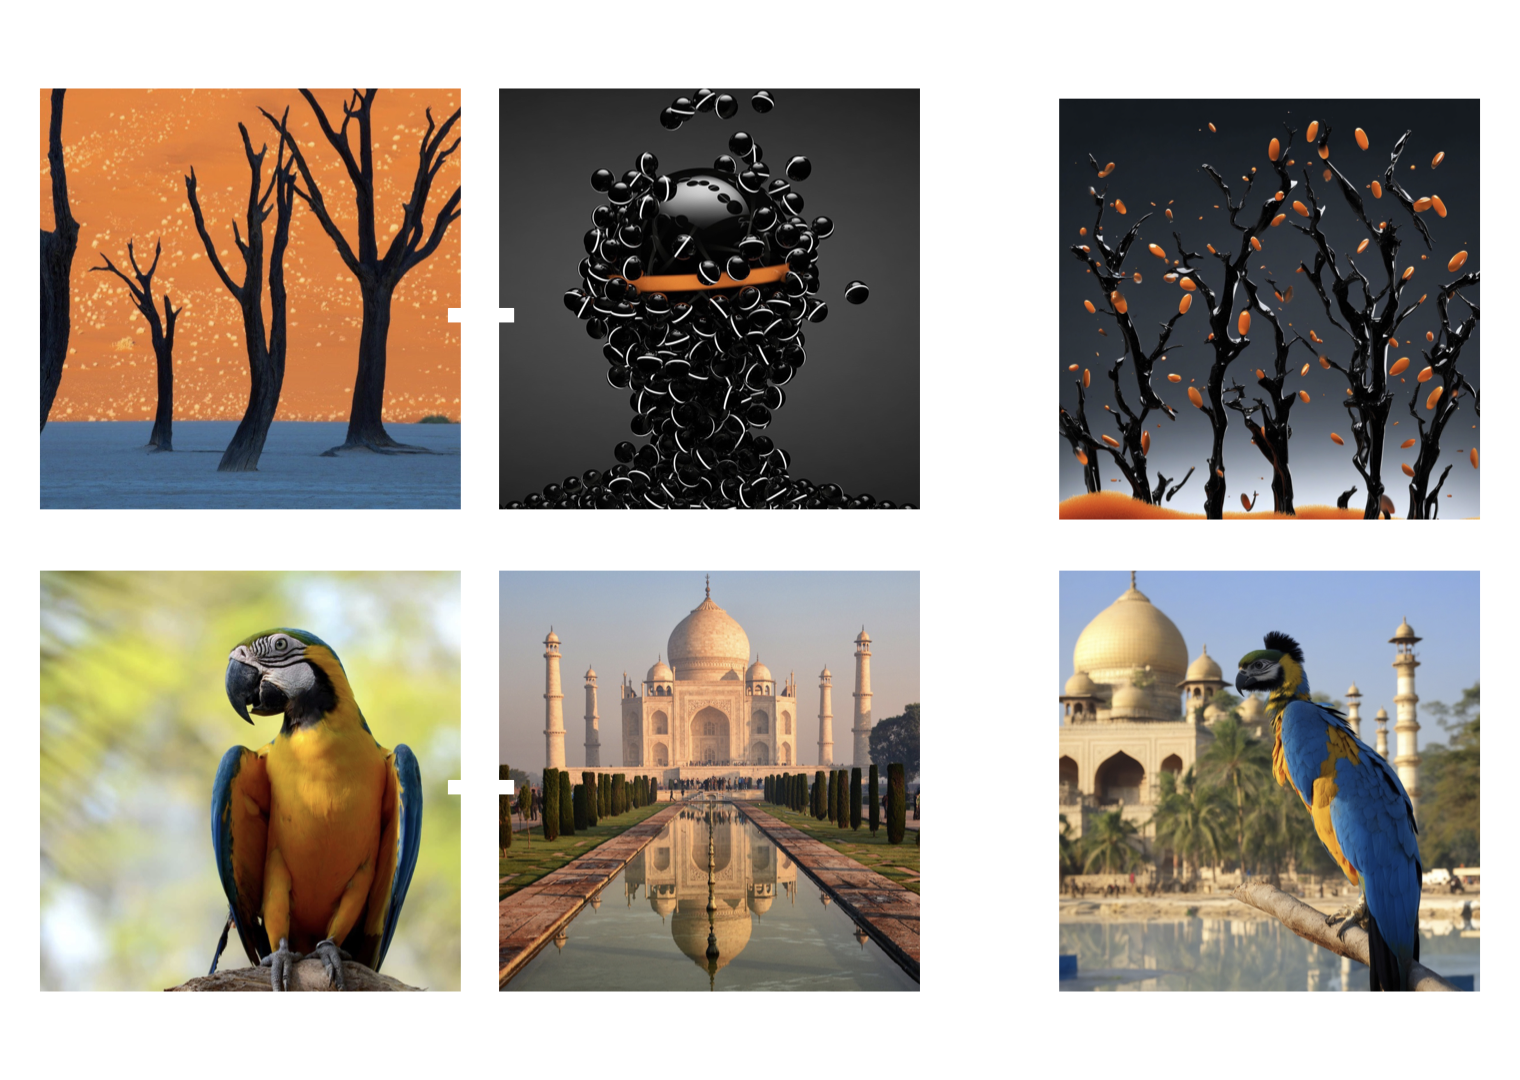
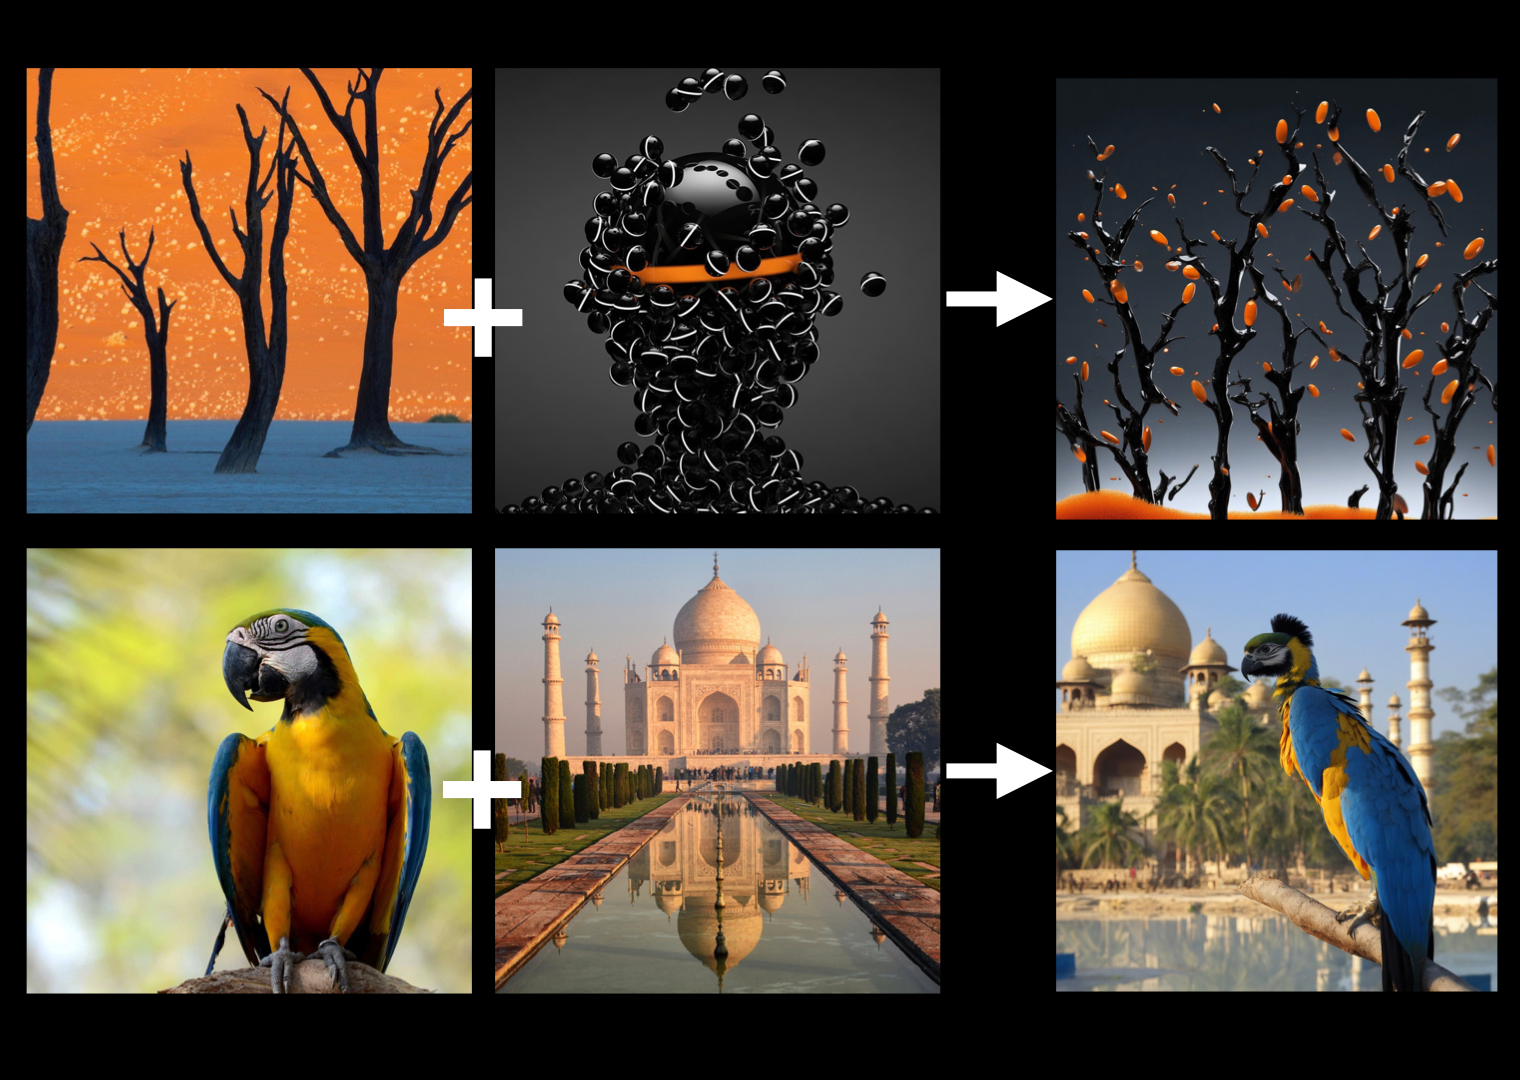
use new thumbnails, make more room for them in layout

diff --git a/apps/garden/src/components/Creation/CreationInterface/GeneratorSelect.tsx b/apps/garden/src/components/Creation/CreationInterface/GeneratorSelect.tsx
@@ -37,11 +37,11 @@ const ListItem = ({
           : 'hover:!bg-gray-200 hover:dark:!bg-gray-800'
       } hover:border-blue-400  hover:dark:border-blue-600 hover:dark:bg-gray-950 rounded-lg font-mono `}
     >
-      <div className="relative flex sm:gap-2 flex-col sm:flex-row">
+      <div className="relative flex gap-2 flex-col sm:flex-row">
         <div className="flex items-center justify-center relative">
           <Image
-            width={170}
-            height={120}
+            width={198}
+            height={140}
             src={imgSrc}
             alt={imgSrc}
             onError={() => {

diff --git a/apps/garden/src/components/Modals/GeneratorSelectModal.tsx b/apps/garden/src/components/Modals/GeneratorSelectModal.tsx
@@ -19,7 +19,7 @@ const GeneratorSelectModal = ({
   return (
     <Modal
       {...rest}
-      className="modal-small max-w-4xl flex flex-col w-full items-center justify-center"
+      className="modal-small max-w-6xl flex flex-col w-full items-center justify-center"
     >
       <div className="flex justify-between items-center bg-gray-300 dark:bg-gray-800 rounded-t-lg h-14 px-4 py-2 flex-wrap">
         <div className="font-bold flex-shrink-0">Select Generator</div>

diff --git a/apps/garden/src/components/Creation/CreationInterface/parameters/AspectRatioParameter.tsx b/apps/garden/src/components/Creation/CreationInterface/parameters/AspectRatioParameter.tsx
@@ -71,6 +71,8 @@ const AspectRatioParameter = ({
     const currentValue = form.getFieldValue(name)
     if (typeof currentValue !== 'undefined') {
       setDisplayValue(presetResolutions[form.getFieldValue(name)].aspectRatio)
+    } else {
+      setDisplayValue(presetResolutions[4].aspectRatio)
     }
   }, [form])
 
